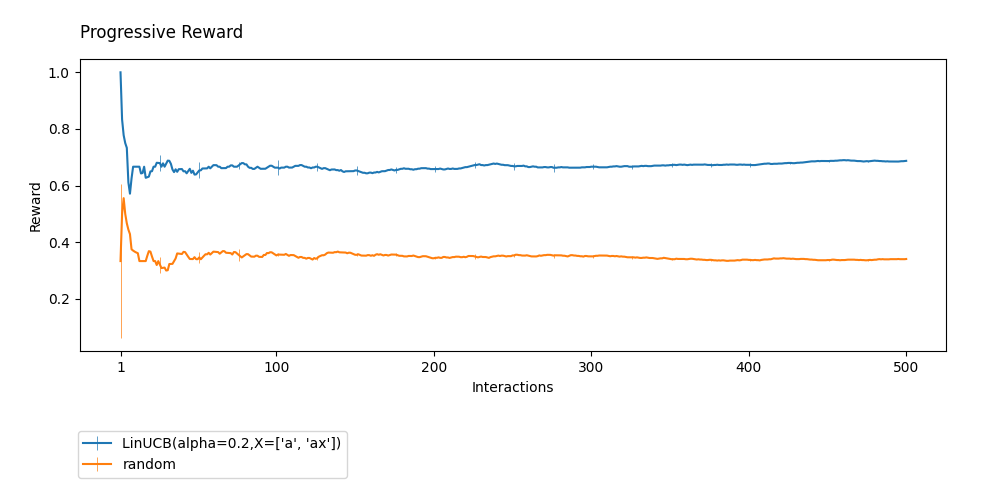
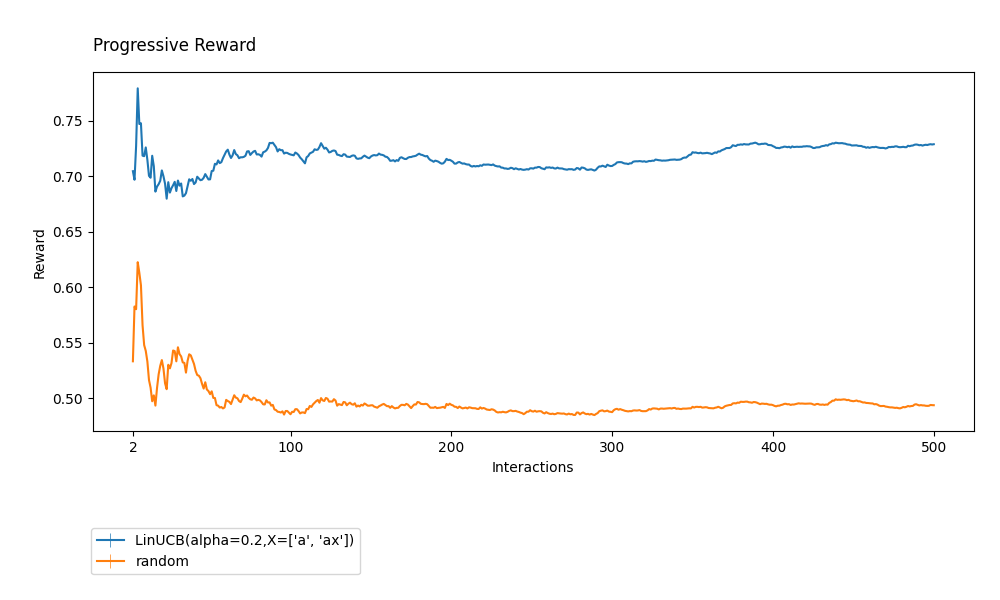
Simplifying getting started documentation and updating plot.

diff --git a/docs/source/getting_started.rst b/docs/source/getting_started.rst
@@ -33,11 +33,11 @@ To begin save the following Python code below to a text file called ``first.py``
     from coba.learners     import RandomLearner, LinUCBLearner
     from coba.experiments  import Experiment
 
-    env = Environments.from_linear_synthetic(500).shuffle([1,2,3]).binary()
+    env = Environments.from_linear_synthetic(500)
     lrn = [ RandomLearner(), LinUCBLearner() ]
 
-    result = Experiment(env, lrn).evaluate()
-    result.plot_learners(xlim=(0,500), err='se')
+    Experiment(env, lrn).evaluate().plot_learners()
+
 
 Once the file has been saved run the file using python.
 
